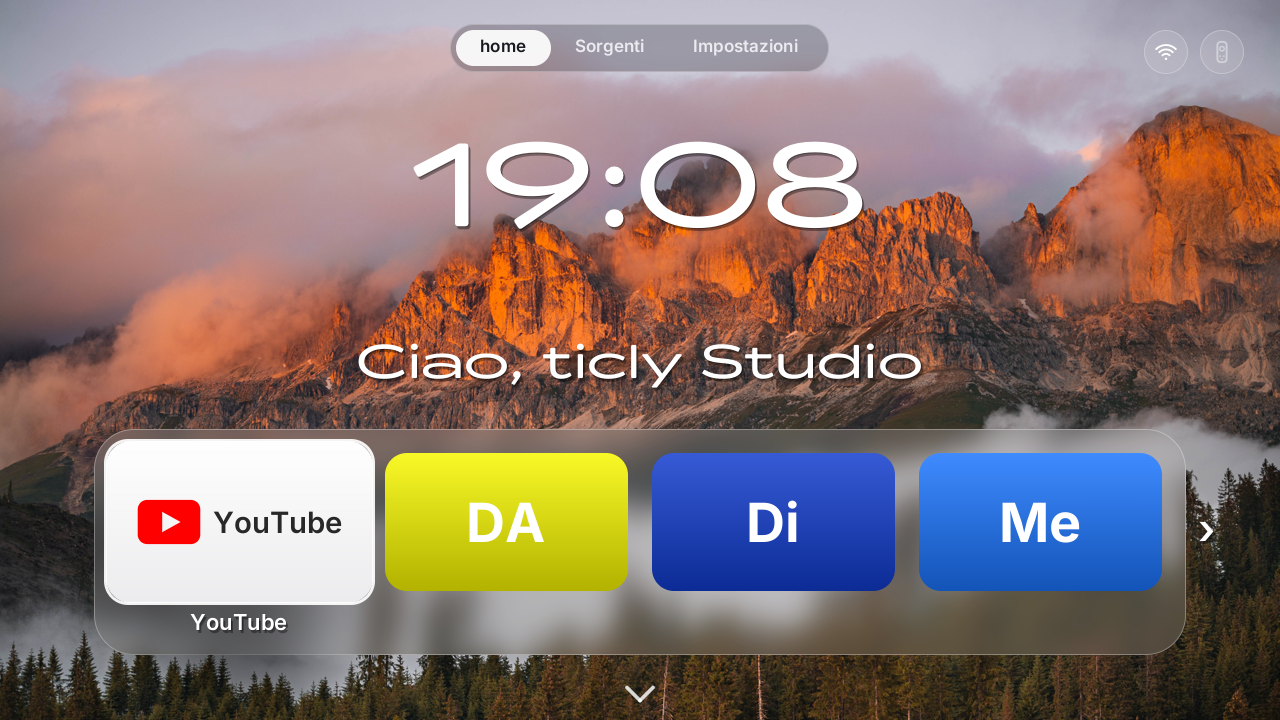
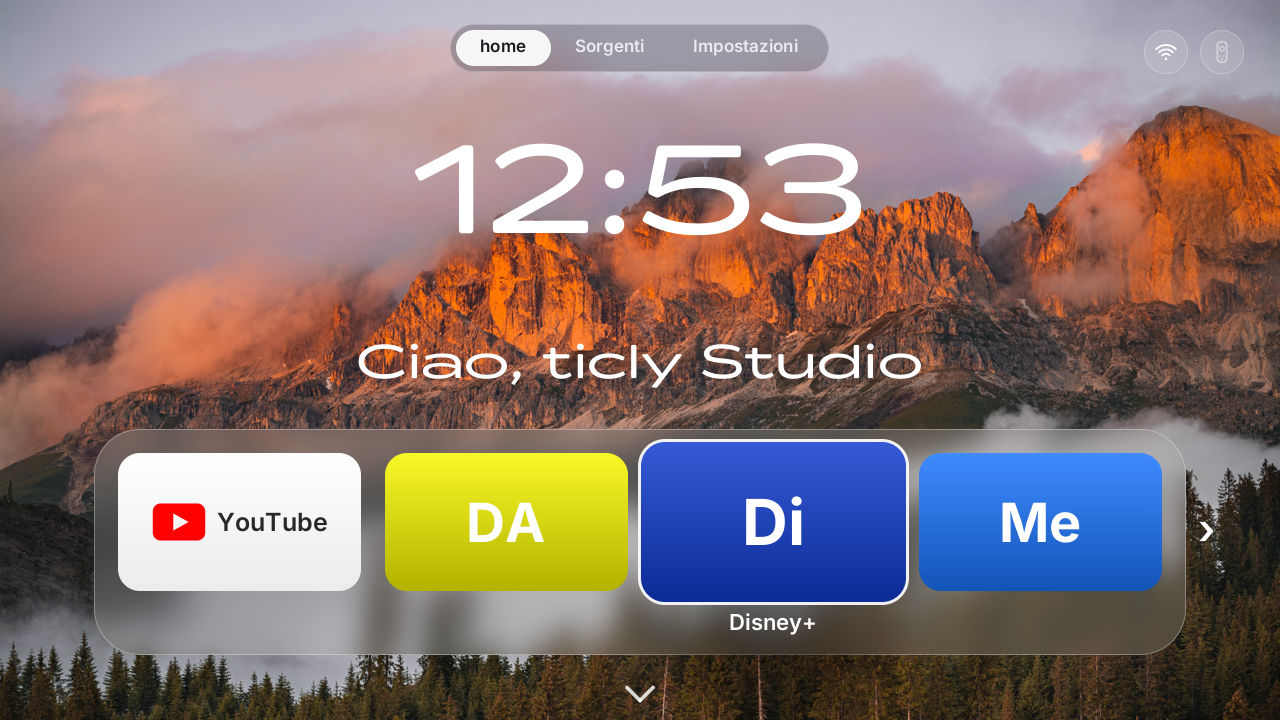
ui: drop text shadows, make nested corner radii concentric [skip ci]
Dock bar radius = tile radius + padding, focus rings follow the grown tile, settings highlight = panel radius - inset, QR card corners tighter than their frame.

diff --git a/crates/tvos-apps/src/launcher.rs b/crates/tvos-apps/src/launcher.rs
@@ -314,10 +314,10 @@ impl Launcher {
         let time = clock::now_text();
         let probe = text_width(&time, 100.0, Weight::Display).max(1) as f32;
         let size = (100.0 * w as f32 * 0.36 / probe).min(150.0 * s);
-        surface.draw_text_shadow((w - text_width(&time, size, Weight::Display)) / 2, (h as f32 * 0.16) as i32 + dy, &time, white, size, Weight::Display);
+        surface.draw_text_ex((w - text_width(&time, size, Weight::Display)) / 2, (h as f32 * 0.16) as i32 + dy, &time, white, size, Weight::Display);
         let greet = format!("Ciao, {}", self.name);
         let gsize = 46.0 * s;
-        surface.draw_text_shadow((w - text_width(&greet, gsize, Weight::Display)) / 2, (h as f32 * 0.465) as i32 + dy, &greet, white, gsize, Weight::Display);
+        surface.draw_text_ex((w - text_width(&greet, gsize, Weight::Display)) / 2, (h as f32 * 0.465) as i32 + dy, &greet, white, gsize, Weight::Display);
 
         // Dock
         let dock = self.dock();
@@ -339,7 +339,8 @@ impl Launcher {
         let bar_h = tile_h + 2 * pad + label;
         let bar_x = (w - bar_w) / 2;
         let bar_y = (h as f32 * 0.91) as i32 - bar_h + dy;
-        surface.draw_frosted_card(bar_x, bar_y, bar_w as u32, bar_h as u32, tile_w / 6, Color::rgba(255, 255, 255, 38), Color::rgba(255, 255, 255, 80));
+        // Bar corners concentric with the tiles': tile radius + padding
+        surface.draw_frosted_card(bar_x, bar_y, bar_w as u32, bar_h as u32, tile_h * 16 / 100 + pad, Color::rgba(255, 255, 255, 38), Color::rgba(255, 255, 255, 80));
 
         let mut focused: Option<(usize, i32)> = None;
         for slot in 0..visible {
@@ -358,17 +359,17 @@ impl Launcher {
             let (fx, fy, fw, fh) = (x - grow, bar_y + pad - grow, tile_w + 2 * grow, tile_h + 2 * grow);
             surface.draw_radial_glow(fx + fw / 2, fy + fh + px(6.0), fw * 3 / 5, Color::rgba(0, 0, 0, 120));
             draw_tile(surface, &app.art, &app.name, fx, fy, fw, fh);
-            surface.stroke_rrect(fx - 2, fy - 2, (fw + 4) as u32, (fh + 4) as u32, tile_h * 16 / 100 + 2, 3.0, Color::rgba(255, 255, 255, 235));
+            surface.stroke_rrect(fx - 2, fy - 2, (fw + 4) as u32, (fh + 4) as u32, fh * 16 / 100 + 2, 3.0, Color::rgba(255, 255, 255, 235));
             let nsize = 22.0 * s;
-            surface.draw_text_shadow(fx + (fw - text_width(&app.name, nsize, Weight::SemiBold)) / 2, fy + fh + px(6.0), &app.name, white, nsize, Weight::SemiBold);
+            surface.draw_text_ex(fx + (fw - text_width(&app.name, nsize, Weight::SemiBold)) / 2, fy + fh + px(6.0), &app.name, white, nsize, Weight::SemiBold);
         }
         // More apps off screen: small arrows at the dock edges
         let arrow = 26.0 * s;
         if self.scroll > 0 {
-            surface.draw_text_shadow(bar_x - px(28.0), bar_y + pad + tile_h / 2 - px(18.0), "‹", white, arrow * 1.6, Weight::SemiBold);
+            surface.draw_text_ex(bar_x - px(28.0), bar_y + pad + tile_h / 2 - px(18.0), "‹", white, arrow * 1.6, Weight::SemiBold);
         }
         if self.scroll + visible < count {
-            surface.draw_text_shadow(bar_x + bar_w + px(12.0), bar_y + pad + tile_h / 2 - px(18.0), "›", white, arrow * 1.6, Weight::SemiBold);
+            surface.draw_text_ex(bar_x + bar_w + px(12.0), bar_y + pad + tile_h / 2 - px(18.0), "›", white, arrow * 1.6, Weight::SemiBold);
         }
     }
 
@@ -398,10 +399,10 @@ impl Launcher {
         }
         let time = clock::now_text();
         let csize = 40.0 * s;
-        surface.draw_text_shadow(px(48.0), hb_y + hb_h / 2 - (csize * 0.68) as i32, &time, white, csize, Weight::Display);
+        surface.draw_text_ex(px(48.0), hb_y + hb_h / 2 - (csize * 0.68) as i32, &time, white, csize, Weight::Display);
         let nsize = 24.0 * s;
         let nw = text_width(&self.name, nsize, Weight::Display);
-        surface.draw_text_shadow(w - px(48.0) - nw, hb_y + hb_h / 2 - (nsize * 0.68) as i32, &self.name, white, nsize, Weight::Display);
+        surface.draw_text_ex(w - px(48.0) - nw, hb_y + hb_h / 2 - (nsize * 0.68) as i32, &self.name, white, nsize, Weight::Display);
 
         // Grid
         let tile_w = (w as f32 * 0.205) as i32;
@@ -430,9 +431,9 @@ impl Launcher {
             let (fx, fy, fw, fh) = (x - grow, y - grow, tile_w + 2 * grow, tile_h + 2 * grow);
             surface.draw_radial_glow(fx + fw / 2, fy + fh + px(6.0), fw * 3 / 5, Color::rgba(0, 0, 0, 110));
             draw_tile(surface, &app.art, &app.name, fx, fy, fw, fh);
-            surface.stroke_rrect(fx - 2, fy - 2, (fw + 4) as u32, (fh + 4) as u32, tile_h * 16 / 100 + 2, 3.0, Color::rgba(255, 255, 255, 235));
+            surface.stroke_rrect(fx - 2, fy - 2, (fw + 4) as u32, (fh + 4) as u32, fh * 16 / 100 + 2, 3.0, Color::rgba(255, 255, 255, 235));
             let nsize = 22.0 * s;
-            surface.draw_text_shadow(fx + (fw - text_width(&app.name, nsize, Weight::SemiBold)) / 2, fy + fh + px(12.0), &app.name, white, nsize, Weight::SemiBold);
+            surface.draw_text_ex(fx + (fw - text_width(&app.name, nsize, Weight::SemiBold)) / 2, fy + fh + px(12.0), &app.name, white, nsize, Weight::SemiBold);
         }
 
         // Page dots

diff --git a/crates/tvos-apps/src/setup.rs b/crates/tvos-apps/src/setup.rs
@@ -34,9 +34,9 @@ impl SetupScreen {
 
         // Left: greeting and the three things that must work
         let x = (w as f32 * 0.075) as i32;
-        s.draw_text_shadow(x, (h as f32 * 0.12) as i32, "Configurazione iniziale", Color::rgba(255, 255, 255, 200), 22.0 * k, Weight::SemiBold);
-        s.draw_text_shadow(x, (h as f32 * 0.165) as i32, "Benvenuto", Color::white(), 78.0 * k, Weight::Display);
-        s.draw_text_shadow(x, (h as f32 * 0.33) as i32, "Collega il telefono e la TV è pronta.", Color::rgba(255, 255, 255, 220), 24.0 * k, Weight::Regular);
+        s.draw_text_ex(x, (h as f32 * 0.12) as i32, "Configurazione iniziale", Color::rgba(255, 255, 255, 200), 22.0 * k, Weight::SemiBold);
+        s.draw_text_ex(x, (h as f32 * 0.165) as i32, "Benvenuto", Color::white(), 78.0 * k, Weight::Display);
+        s.draw_text_ex(x, (h as f32 * 0.33) as i32, "Collega il telefono e la TV è pronta.", Color::rgba(255, 255, 255, 220), 24.0 * k, Weight::Regular);
 
         let sys = &self.sys;
         let (net_title, net_detail) = sys.network_summary();
@@ -83,7 +83,7 @@ impl SetupScreen {
         let (cy, ch) = ((h as f32 * 0.14) as i32, (h as f32 * 0.74) as i32);
         s.draw_frosted_card(cx, cy, cw as u32, ch as u32, px(30.0), Color::rgba(30, 30, 40, 70), Color::rgba(255, 255, 255, 90));
         let pad = px(30.0);
-        s.draw_text_shadow(cx + pad, cy + pad, "Telecomando", Color::white(), 28.0 * k, Weight::Display);
+        s.draw_text_ex(cx + pad, cy + pad, "Telecomando", Color::white(), 28.0 * k, Weight::Display);
         let qs = (cw - 2 * pad).min(ch - px(190.0));
         let (qx, qy) = (cx + (cw - qs) / 2, cy + px(82.0));
         match self.remote_url() {
@@ -94,7 +94,7 @@ impl SetupScreen {
                 s.draw_text_ex(cx + (cw - uw) / 2, qy + qs + px(18.0), &url, Color::white(), us, Weight::SemiBold);
             }
             None => {
-                s.fill_rrect(qx, qy, qs as u32, qs as u32, qs / 14, Color::rgba(255, 255, 255, 30));
+                s.fill_rrect(qx, qy, qs as u32, qs as u32, qs / 28, Color::rgba(255, 255, 255, 30));
                 let msg = "In attesa della rete";
                 let ms = 19.0 * k;
                 s.draw_text_ex(qx + (qs - text_width(msg, ms, Weight::SemiBold)) / 2, qy + qs / 2 - px(12.0), msg, Color::white(), ms, Weight::SemiBold);

diff --git a/crates/tvos-apps/src/apps_screen.rs b/crates/tvos-apps/src/apps_screen.rs
@@ -28,8 +28,8 @@ impl AppsScreen {
         s.fill_rect(0, 0, w as u32, h as u32, Color::rgba(0, 0, 0, 60));
 
         let x = (w as f32 * 0.075) as i32;
-        s.draw_text_shadow(x, (h as f32 * 0.11) as i32, "Installa app", Color::white(), 60.0 * k, Weight::Display);
-        s.draw_text_shadow(x, (h as f32 * 0.235) as i32, "Dal telefono, collegato alla stessa rete della TV.", Color::rgba(255, 255, 255, 220), 22.0 * k, Weight::Regular);
+        s.draw_text_ex(x, (h as f32 * 0.11) as i32, "Installa app", Color::white(), 60.0 * k, Weight::Display);
+        s.draw_text_ex(x, (h as f32 * 0.235) as i32, "Dal telefono, collegato alla stessa rete della TV.", Color::rgba(255, 255, 255, 220), 22.0 * k, Weight::Regular);
 
         let has_ip = !self.ip.is_empty() && self.ip != "0.0.0.0";
         let url = format!("http://{}:{}/apps", self.ip, self.port);
@@ -53,14 +53,14 @@ impl AppsScreen {
 
         // PIN
         let py = y0 + rh * 3 + px(40.0);
-        s.draw_text_shadow(x, py, "PIN", Color::rgba(255, 255, 255, 200), 18.0 * k, Weight::SemiBold);
+        s.draw_text_ex(x, py, "PIN", Color::rgba(255, 255, 255, 200), 18.0 * k, Weight::SemiBold);
         let pin = if self.pin.is_empty() { "----" } else { &self.pin };
-        s.draw_text_shadow(x, py + px(26.0), pin, Color::white(), 52.0 * k, Weight::Display);
+        s.draw_text_ex(x, py + px(26.0), pin, Color::white(), 52.0 * k, Weight::Display);
 
         // Installed apps as chips
         let iy = py + px(110.0);
         let label = if self.installed.is_empty() { "Nessuna app installata".to_string() } else { format!("Installate ({})", self.installed.len()) };
-        s.draw_text_shadow(x, iy, &label, Color::rgba(255, 255, 255, 200), 16.0 * k, Weight::SemiBold);
+        s.draw_text_ex(x, iy, &label, Color::rgba(255, 255, 255, 200), 16.0 * k, Weight::SemiBold);
         let (mut cx, mut cy) = (x, iy + px(30.0));
         let cs = 15.0 * k;
         for name in &self.installed {

diff --git a/crates/tvos-apps/src/settings.rs b/crates/tvos-apps/src/settings.rs
@@ -130,7 +130,7 @@ impl SettingsApp {
             let y = top + ipad + i as i32 * (item_h + px(8.0));
             let on = i == self.menu;
             if on {
-                s.fill_rrect(mx + ipad, y, (mw - 2 * ipad) as u32, item_h as u32, px(14.0), Color::rgba(255, 255, 255, 225));
+                s.fill_rrect(mx + ipad, y, (mw - 2 * ipad) as u32, item_h as u32, px(26.0) - ipad, Color::rgba(255, 255, 255, 225));
             }
             let col = if on { Color::rgb(25, 25, 32) } else { Color::white() };
             s.draw_text_ex(mx + ipad + px(18.0), y + (item_h as f32 * 0.5 - msize * 0.68) as i32, name, col, msize, Weight::SemiBold);
@@ -138,7 +138,7 @@ impl SettingsApp {
 
         // Panel
         s.draw_frosted_card(rx, top, rw as u32, ph as u32, px(26.0), Color::rgba(30, 30, 40, 60), Color::rgba(255, 255, 255, 80));
-        s.draw_text_shadow(rx + px(40.0), top + px(30.0), MENU[self.menu], Color::white(), 34.0 * k, Weight::Display);
+        s.draw_text_ex(rx + px(40.0), top + px(30.0), MENU[self.menu], Color::white(), 34.0 * k, Weight::Display);
         // The remote page also shows its QR code on the right of the panel
         let mut rows_w = rw - px(80.0);
         if MENU[self.menu] == "Telecomando" && self.sys.ip.is_some() {

diff --git a/crates/tvos-apps/src/sources.rs b/crates/tvos-apps/src/sources.rs
@@ -88,10 +88,10 @@ impl SourcesScreen {
             let dc = if row.on { Color::rgb(52, 211, 120) } else { Color::rgba(255, 255, 255, 110) };
             s.fill_rrect(x + px(34.0), y + row_h / 2 - dot / 2, dot as u32, dot as u32, dot / 2, dc);
             let tx = x + px(34.0) + dot + px(22.0);
-            s.draw_text_shadow(tx, y + row_h / 2 - (tsize * 0.95) as i32, row.title, Color::white(), tsize, Weight::SemiBold);
+            s.draw_text_ex(tx, y + row_h / 2 - (tsize * 0.95) as i32, row.title, Color::white(), tsize, Weight::SemiBold);
             s.draw_text_ex(tx, y + row_h / 2 + px(6.0), &row.detail, Color::rgba(255, 255, 255, 215), dsize, Weight::Regular);
             let sw = text_width(row.status, ssize, Weight::SemiBold);
-            s.draw_text_shadow(x + pw - px(34.0) - sw, y + row_h / 2 - (ssize * 0.65) as i32, row.status, if row.on { Color::white() } else { Color::rgba(255, 255, 255, 170) }, ssize, Weight::SemiBold);
+            s.draw_text_ex(x + pw - px(34.0) - sw, y + row_h / 2 - (ssize * 0.65) as i32, row.status, if row.on { Color::white() } else { Color::rgba(255, 255, 255, 170) }, ssize, Weight::SemiBold);
         }
     }
 }

diff --git a/crates/tvos-core/src/surface.rs b/crates/tvos-core/src/surface.rs
@@ -235,13 +235,6 @@ impl Surface {
         }
     }
 
-    /// Text with a soft dark shadow, readable over a bright photo
-    pub fn draw_text_shadow(&mut self, x: i32, y: i32, text: &str, color: Color, size: f32, weight: Weight) {
-        self.draw_text_ex(x + 2, y + 3, text, Color::rgba(0, 0, 0, 90), size, weight);
-        self.draw_text_ex(x + 1, y + 1, text, Color::rgba(0, 0, 0, 70), size, weight);
-        self.draw_text_ex(x, y, text, color, size, weight);
-    }
-
     /// Anti-aliased rounded rectangle outline (inside the rect), `bw` px thick
     pub fn stroke_rrect(&mut self, x: i32, y: i32, w: u32, h: u32, radius: i32, bw: f32, color: Color) {
         let r = (radius as f32).min(w as f32 / 2.0).min(h as f32 / 2.0);

diff --git a/crates/tvos-apps/src/qr.rs b/crates/tvos-apps/src/qr.rs
@@ -6,7 +6,7 @@ use tvos_core::surface::Surface;
 
 /// Draws `text` as a QR code on a white rounded card `size` pixels wide, top-left at (x, y).
 pub fn draw(s: &mut Surface, x: i32, y: i32, size: i32, text: &str) {
-    s.fill_rrect(x, y, size as u32, size as u32, size / 14, Color::white());
+    s.fill_rrect(x, y, size as u32, size as u32, size / 28, Color::white());
     let Ok(qr) = QrCode::encode_text(text, QrCodeEcc::Medium) else { return };
     let n = qr.size();
     // Whole pixels per module keep the code sharp; at least 2 modules of white border
